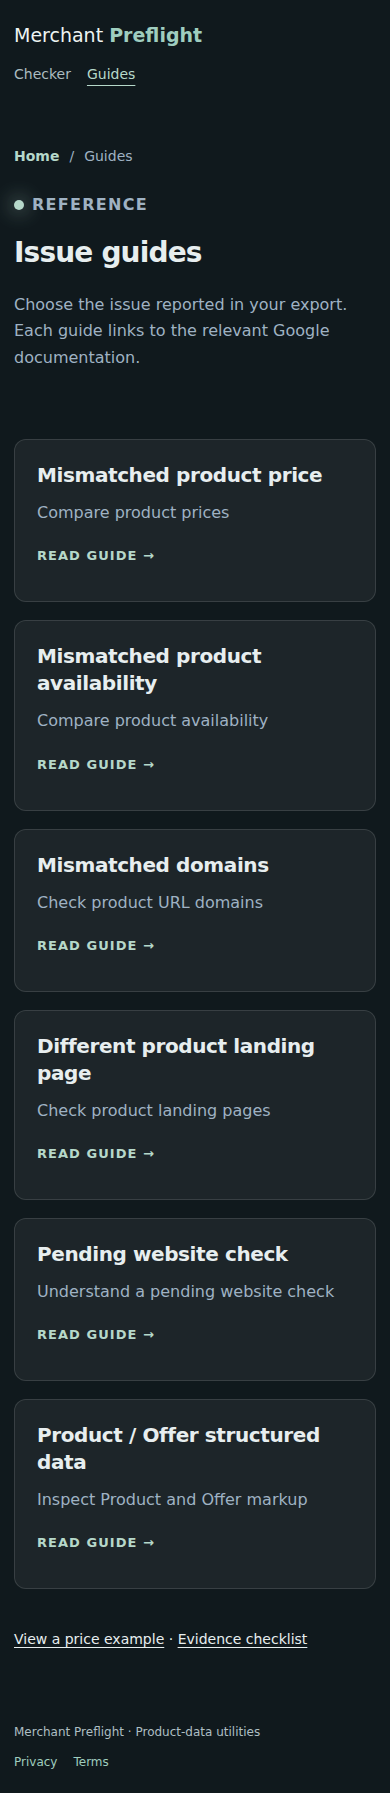
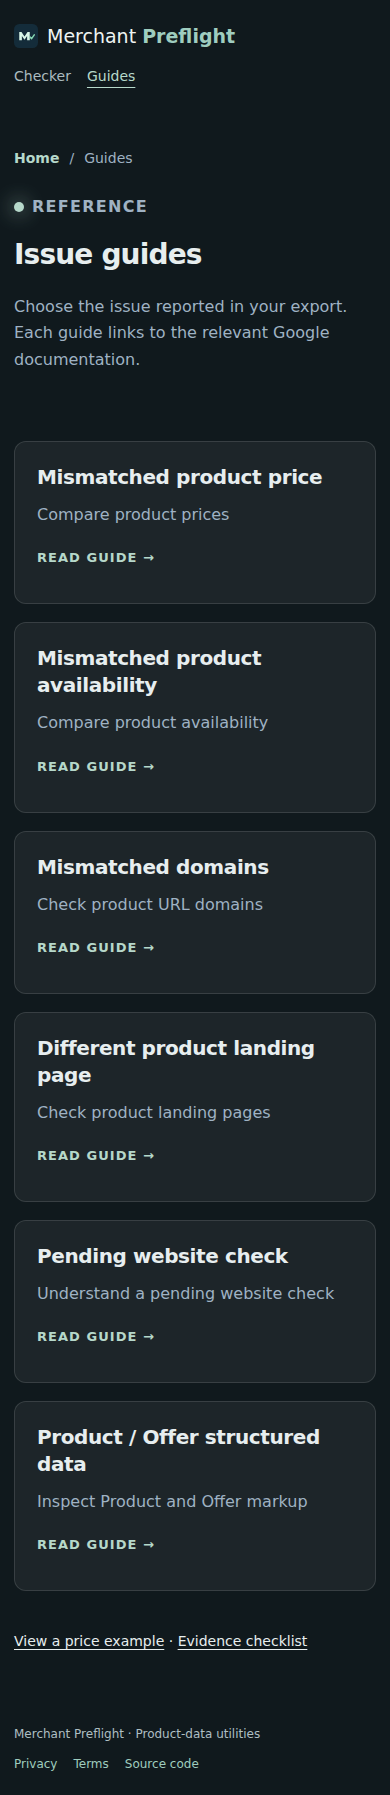
Report CSV issue groups accurately and clarify checker actions

diff --git a/src/lib/csvAnalysis.ts b/src/lib/csvAnalysis.ts
@@ -15,6 +15,13 @@ export type CsvAnalysis = {
     availability?: string;
     status?: string;
   };
+  rowClassification: {
+    withIssue: number;
+    withoutIssue: number;
+    statusOnly: number;
+    unclassified: number;
+  };
+  statusGroups: { status: string; count: number }[];
   issueGroups: {
     issue: string;
     count: number;
@@ -164,6 +171,13 @@ export function analyzeCsvText(
       rowsCount: 0,
       headers: [],
       detectedColumns: {},
+      rowClassification: {
+        withIssue: 0,
+        withoutIssue: 0,
+        statusOnly: 0,
+        unclassified: 0,
+      },
+      statusGroups: [],
       issueGroups: [],
       topUrls: [],
       warnings: [
@@ -193,6 +207,13 @@ export function analyzeCsvText(
       rowsCount: 0,
       headers: rawHeaders,
       detectedColumns: {},
+      rowClassification: {
+        withIssue: 0,
+        withoutIssue: 0,
+        statusOnly: 0,
+        unclassified: 0,
+      },
+      statusGroups: [],
       issueGroups: [],
       topUrls: [],
       warnings: [
@@ -209,6 +230,13 @@ export function analyzeCsvText(
       rowsCount: 0,
       headers: matrix[0] ?? [],
       detectedColumns: {},
+      rowClassification: {
+        withIssue: 0,
+        withoutIssue: 0,
+        statusOnly: 0,
+        unclassified: 0,
+      },
+      statusGroups: [],
       issueGroups: [],
       topUrls: [],
       warnings: ["CSV looks empty or has no product rows."],
@@ -248,18 +276,38 @@ export function analyzeCsvText(
     status: findColumn(headers, ["status", "approval status", "item status"]),
   };
 
-  const issueSource = detectedColumns.issue || detectedColumns.status;
-
+  const rowClassification = {
+    withIssue: 0,
+    withoutIssue: 0,
+    statusOnly: 0,
+    unclassified: 0,
+  };
   const grouped = new Map<string, CsvRow[]>();
+  const statuses = new Map<string, number>();
 
   rows.forEach((row) => {
-    const issue = issueSource ? row[issueSource]?.trim() : "";
-    const key =
-      issue || (issueSource ? "No issue provided" : "No issue column detected");
-    const current = grouped.get(key) ?? [];
-    current.push(row);
-    grouped.set(key, current);
+    if (detectedColumns.issue) {
+      const issue = row[detectedColumns.issue].trim();
+      if (issue) {
+        rowClassification.withIssue += 1;
+        const current = grouped.get(issue) ?? [];
+        current.push(row);
+        grouped.set(issue, current);
+      } else rowClassification.withoutIssue += 1;
+    } else {
+      const status = detectedColumns.status
+        ? row[detectedColumns.status].trim()
+        : "";
+      if (status) {
+        rowClassification.statusOnly += 1;
+        statuses.set(status, (statuses.get(status) ?? 0) + 1);
+      } else rowClassification.unclassified += 1;
+    }
   });
+  const statusGroups = Array.from(statuses, ([status, count]) => ({
+    status,
+    count,
+  }));
 
   const issueGroups = Array.from(grouped.entries())
     .map(([issue, groupRows]) => ({
@@ -287,8 +335,8 @@ export function analyzeCsvText(
   if (!detectedColumns.issue) {
     warnings.push(
       detectedColumns.status
-        ? "No clear Issue column was detected. The checker grouped products by status instead."
-        : "No Issue or Status column was detected. Products could not be classified by issue.",
+        ? "No Issue column was detected. Status values are grouped separately; they do not identify product issues."
+        : "No Issue or Status column was detected. These rows cannot be classified by issue.",
     );
   }
 
@@ -325,6 +373,8 @@ export function analyzeCsvText(
     rowsCount: rows.length,
     headers,
     detectedColumns,
+    rowClassification,
+    statusGroups,
     issueGroups,
     warnings,
     topUrls,

diff --git a/src/components/CsvChecker.tsx b/src/components/CsvChecker.tsx
@@ -2,6 +2,16 @@ import { useRef, useState, type ChangeEvent } from "react";
 import { analyzeCsvText, type CsvAnalysis } from "../lib/csvAnalysis";
 import { demoCsv } from "./checkerSamples";
 
+const fieldLabels: Record<keyof CsvAnalysis["detectedColumns"], string> = {
+  issue: "Issue",
+  title: "Product title",
+  link: "Product URL",
+  id: "Product ID",
+  price: "Price",
+  availability: "Availability",
+  status: "Status",
+};
+
 export default function CsvChecker() {
   const [result, setResult] = useState<CsvAnalysis | null>(null);
   const [error, setError] = useState("");
@@ -59,6 +69,7 @@ export default function CsvChecker() {
         </label>
         <div className="pw-actions">
           <button
+            className="pw-primary"
             onClick={() => {
               ++readId.current;
               setReading(false);
@@ -107,11 +118,18 @@ export default function CsvChecker() {
               ))}
             </div>
           )}
+          <p className="pw-note pw-row-summary">
+            Rows with issue text: {result.rowClassification.withIssue} · Blank
+            Issue: {result.rowClassification.withoutIssue} · Status only:{" "}
+            {result.rowClassification.statusOnly} · Unclassified:{" "}
+            {result.rowClassification.unclassified}
+          </p>
           <h3>Detected columns</h3>
-          <dl className="pw-columns">
+          <p className="pw-note">Detected field → CSV column</p>
+          <dl className="pw-columns pw-detected">
             {Object.entries(result.detectedColumns).map(([label, value]) => (
               <div key={label}>
-                <dt>{label}</dt>
+                <dt>{fieldLabels[label as keyof typeof fieldLabels]}</dt>
                 <dd>{value || "Not found"}</dd>
               </div>
             ))}
@@ -154,9 +172,26 @@ export default function CsvChecker() {
             </div>
           ) : (
             <p>
-              No issue groups could be derived. Check the warnings and detected
-              columns; this is not an all-clear for the store.
+              No nonempty Issue values were supplied. This is not an all-clear
+              for the store; compare the original export and the row counts
+              above.
             </p>
+          )}
+          {result.statusGroups.length > 0 && (
+            <>
+              <h3>Status groups</h3>
+              <p className="pw-note">
+                Supplied status values are not issue diagnoses.
+              </p>
+              <dl className="pw-columns">
+                {result.statusGroups.map(({ status, count }) => (
+                  <div key={status}>
+                    <dt>{status}</dt>
+                    <dd>{count} row(s)</dd>
+                  </div>
+                ))}
+              </dl>
+            </>
           )}
           {result.topUrls.length > 0 && (
             <>
@@ -171,9 +206,11 @@ export default function CsvChecker() {
             </>
           )}
           <p className="pw-note">
-            Each row is grouped by its supplied issue text. Suggested priority
-            is a wording heuristic; Unrated means no supported rule matched.
-            Verify the issue before taking action.
+            Only nonempty Issue values form issue groups. Blank Issue values
+            remain separate; when Issue is absent, status values are reported
+            without inferring a diagnosis. Suggested priority is a wording
+            heuristic; Unrated means no supported rule matched. Verify the issue
+            before taking action.
           </p>
         </section>
       ) : (

diff --git a/src/pages/AffectedProductsCsvCheckerPage.tsx b/src/pages/AffectedProductsCsvCheckerPage.tsx
@@ -10,7 +10,7 @@ export default function AffectedProductsCsvCheckerPage() {
           title: "Choose an export",
           items: [
             "Use a comma-separated file with one header row and one row per product.",
-            "An Issue column is preferred. If it is absent, a recognised Status column is used and the result explains that fallback.",
+            "Use an Issue column for issue grouping. When it is absent, a recognised Status column is grouped separately without inferring product issues.",
             "The file limit is 2 MB and 10,000 product rows.",
           ],
         },
@@ -18,8 +18,8 @@ export default function AffectedProductsCsvCheckerPage() {
           title: "Read the result",
           items: [
             "Product rows counts accepted rows; repeated product URLs still count as separate rows.",
-            "Issue groups counts distinct supplied issue text. Suggested priority is a heuristic, not a new diagnosis; unrecognised text is Unrated.",
-            "Detected columns shows the matched aliases; sample URLs shows up to five distinct values from the export.",
+            "Issue groups counts distinct nonempty Issue values. Blank values and rows without an Issue column do not create issue groups. Suggested priority is a heuristic; unrecognised text is Unrated.",
+            "Row counts distinguish supplied issue text, blank Issue values, status-only rows and unclassified rows. Detected columns maps readable fields to your CSV headers; sample URLs lists up to five distinct values.",
           ],
         },
         {

diff --git a/src/components/CheckerWorkspace.css b/src/components/CheckerWorkspace.css
@@ -28,6 +28,9 @@
   gap: 24px;
 }
 .pw-brand {
+  display: inline-flex;
+  align-items: center;
+  gap: 9px;
   color: #eef4f2 !important;
   font-size: 19px;
   text-decoration: none;
@@ -464,4 +467,16 @@
 .pw-contact [role="status"] {
   margin-left: 12px;
   font-size: 13px;
+}
+
+.pw-brand img {
+  flex-shrink: 0;
+}
+.pw-row-summary {
+  margin: 22px 0;
+}
+
+.pw-detected dd::before {
+  content: "→ ";
+  color: #aebfc3;
 }

diff --git a/src/components/SiteHeader.tsx b/src/components/SiteHeader.tsx
@@ -4,7 +4,10 @@ export default function SiteHeader() {
   return (
     <header className="pw-header">
       <Link className="pw-brand" to="/">
-        Merchant <strong>Preflight</strong>
+        <img src="/favicon.svg" width="24" height="24" alt="" />
+        <span>
+          Merchant <strong>Preflight</strong>
+        </span>
       </Link>
       <nav aria-label="Main navigation">
         <NavLink to="/" end>

diff --git a/src/components/SiteFooter.tsx b/src/components/SiteFooter.tsx
@@ -7,6 +7,9 @@ export default function SiteFooter() {
       <div>
         <Link to="/privacy">Privacy</Link>
         <Link to="/terms">Terms</Link>
+        <a href="https://github.com/flankero-dev/-merchant-listing-preflight">
+          Source code
+        </a>
       </div>
     </footer>
   );

diff --git a/README.md b/README.md
@@ -68,6 +68,7 @@ Node tests cover the analyzers. Playwright checks sample data, uploads and error
 - JSON-LD: up to 2 million input characters; checks inspect the first Product and a directly nested, typed Offer. Referenced offers, AggregateOffer, custom contexts and variant comparison are not resolved.
 - Canonical checks require an absolute HTTP(S) URL for a pass; relative references need a page URL. Destinations are not fetched. Hreflang, shipping and returns remain warnings because their complete requirements are not validated.
 - Raw CSV field spaces are retained; headers, issue grouping and URL samples are normalized separately.
+- CSV results: CSV issue groups contain only nonempty values from a detected Issue column. Blank Issue cells remain separate. When Issue is absent, supplied status values are shown as status groups, not diagnoses; missing values remain unclassified. The row breakdown accounts for every accepted product row.
 - Suggested priority is a heuristic based on issue text; unrecognised issues are Unrated. Passing markup checks does not establish Google eligibility or confirm live stock or prices.
 - The published site includes hosting-provided Cloudflare Web Analytics; the Privacy page distinguishes this from local checker input processing.
 - Contact is an email link with a copy-address fallback; no form or request-submission backend.

diff --git a/docs/decisions.md b/docs/decisions.md
@@ -59,3 +59,7 @@ The main navigation contains Checker and Guides. The separate issue hub duplicat
 All six issue-specific guides retain their official links and substantive checks. Introductory symptoms, repeated calls to contact the developer and arbitrary related-guide cards were removed. Possible causes are optional reading. The price example is one comparison table with three next steps, rather than eight report sections.
 
 Contact is an email link and clipboard button. Checker inputs are never attached or sent. The manual-copy fallback is announced persistently. The previous form fields and their unused CSS were removed.
+
+## CSV row classification
+
+Product rows counts every accepted row. Issue groups uses only nonempty values from an Issue column; blank Issue cells never create invented issue groups. If Issue is absent, Status groups preserves the supplied status information without treating Approved, Disapproved or other labels as diagnoses. Four mutually exclusive row counts account for the entire accepted export. When both columns exist, Issue takes precedence, including its blank cells.
